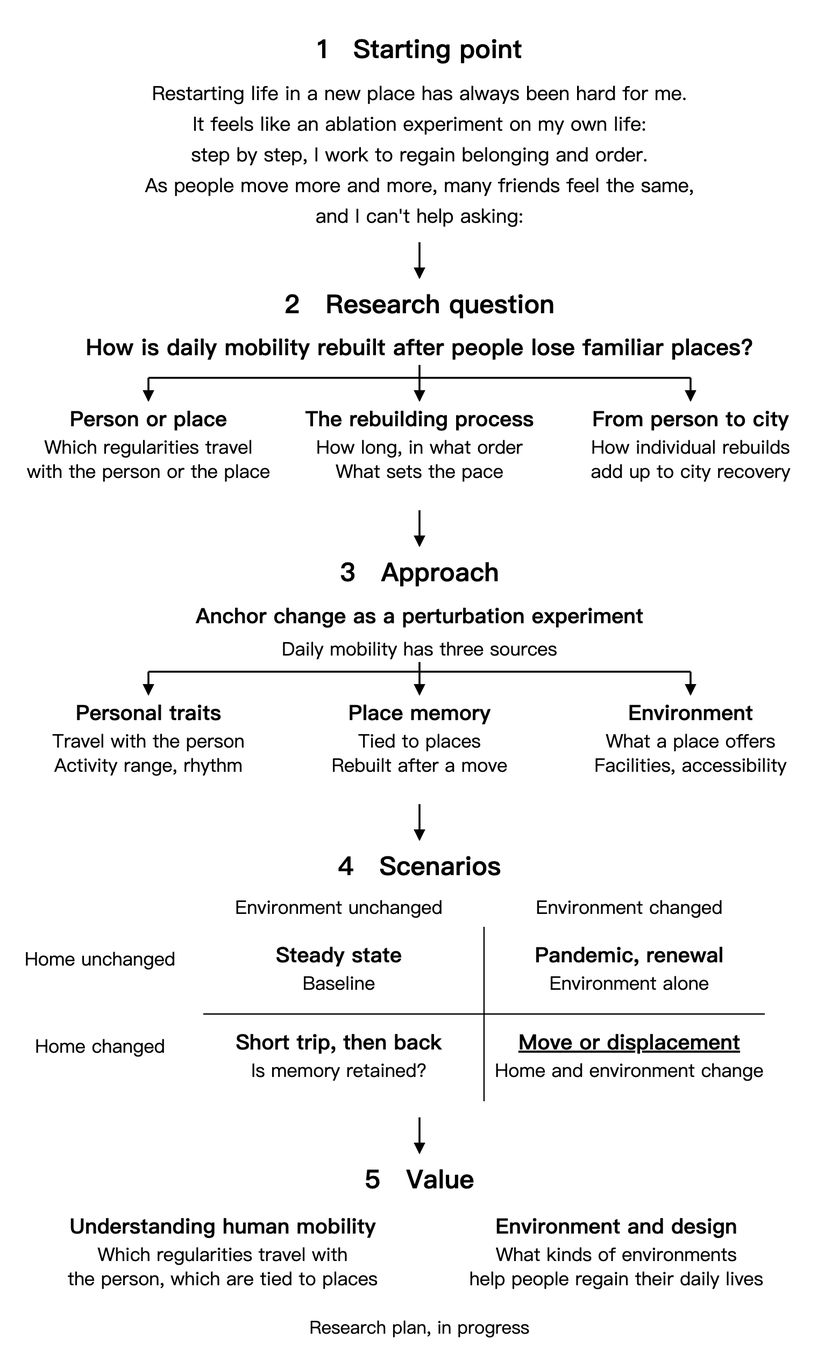
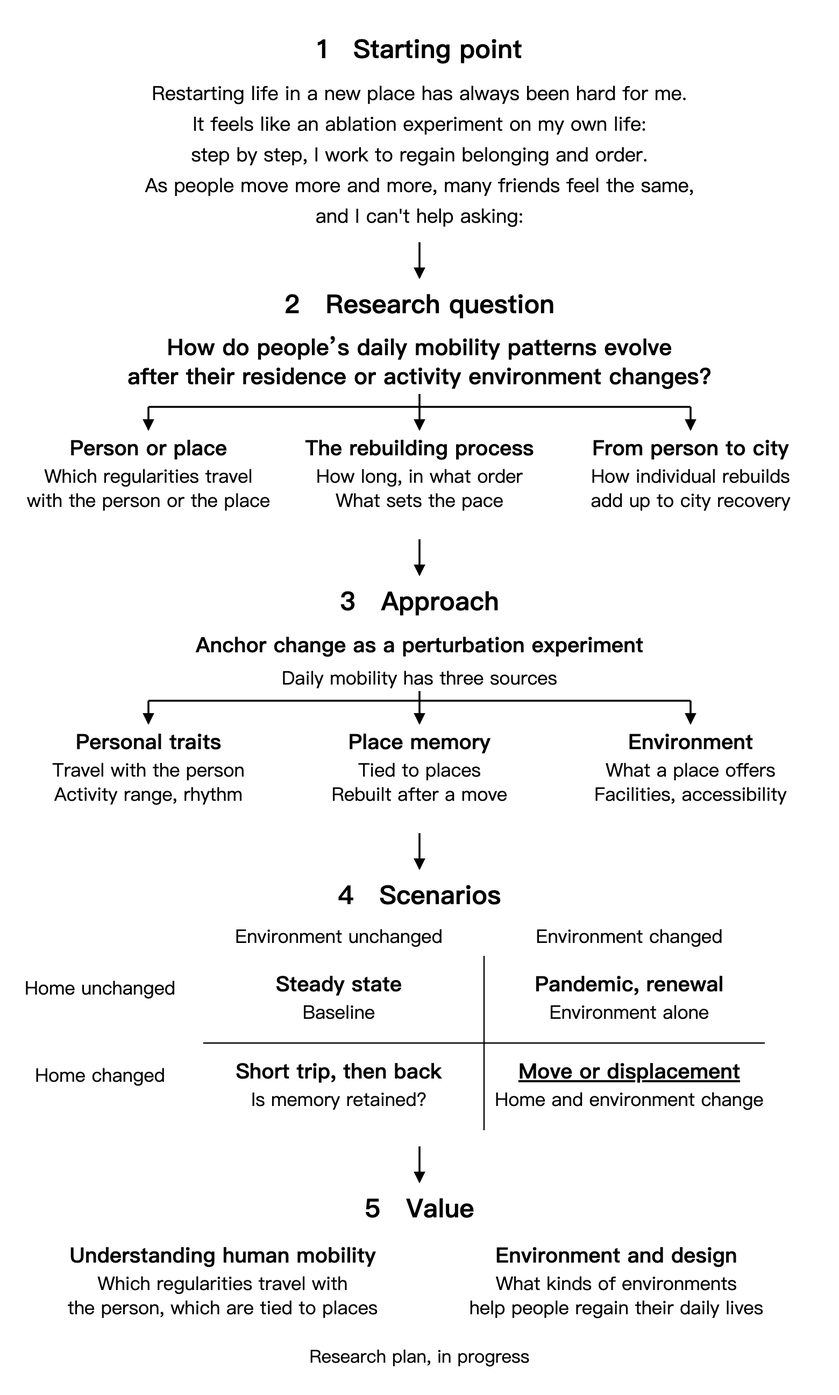
Update the daily-rebuild research question and roadmap

diff --git a/design-bijie.html b/design-bijie.html
@@ -1,1 +1,1 @@
-<!doctype html><html lang="en"><head><meta charset="UTF-8"><meta name="viewport" content="width=device-width,initial-scale=1"><meta name="description" content="A house for a friend’s family, and my first built architectural project. Designed in winter 2025; construction continued through 2025, with a family engagement celebration in October 2026."><title>A home in Bijie | Haoran Liu</title><link rel="stylesheet" href="styles.css"><link rel="stylesheet" href="academic.css?v=20261023-mobile"><link rel="stylesheet" href="design-project.css?v=20261010-projects"></head><body class="academic-page" data-page="design-bijie"><a class="skip-link" href="#main">Skip to content</a><div class="page-shell"><header class="site-header"><a class="brand" href="index.html"><span class="brand-copy"><strong>HAORAN LIU / 刘浩然</strong><small id="affiliation"></small></span></a><nav id="navigation" class="site-nav" aria-label="Main navigation"></nav><button id="language" type="button">中文</button></header><main id="main"><div id="page-content"></div></main></div><script src="design-content.js?v=20261023-names"></script><script src="content.js?v=20261023-names"></script><script src="academic.js?v=20261023-infer"></script></body></html>
+<!doctype html><html lang="en"><head><meta charset="UTF-8"><meta name="viewport" content="width=device-width,initial-scale=1"><meta name="description" content="A house for a friend’s family, and my first built architectural project. Designed in winter 2025; construction continued through 2025, with a family engagement celebration in October 2026."><title>A home in Bijie | Haoran Liu</title><link rel="stylesheet" href="styles.css"><link rel="stylesheet" href="academic.css?v=20261023-mobile"><link rel="stylesheet" href="design-project.css?v=20261010-projects"></head><body class="academic-page" data-page="design-bijie"><a class="skip-link" href="#main">Skip to content</a><div class="page-shell"><header class="site-header"><a class="brand" href="index.html"><span class="brand-copy"><strong>HAORAN LIU / 刘浩然</strong><small id="affiliation"></small></span></a><nav id="navigation" class="site-nav" aria-label="Main navigation"></nav><button id="language" type="button">中文</button></header><main id="main"><div id="page-content"></div></main></div><script src="design-content.js?v=20261023-rebuildq"></script><script src="content.js?v=20261023-rebuildq"></script><script src="academic.js?v=20261023-infer"></script></body></html>

diff --git a/more.html b/more.html
@@ -1,1 +1,1 @@
-<!doctype html><html lang="en"><head><meta charset="UTF-8"><meta name="viewport" content="width=device-width,initial-scale=1"><script>try{if(sessionStorage.getItem('haoran-flip-in')==='1')document.documentElement.classList.add('flip-arriving')}catch(_){}</script><style>.flip-arriving,.flip-arriving body{background:#111}.flip-arriving .page-shell{visibility:hidden}</style><meta name="description" content="Architecture, game development, swimming and underwater rugby."><title>More about me | Haoran Liu</title><link rel="stylesheet" href="styles.css"><link rel="stylesheet" href="academic.css?v=20261023-mobile"></head><body class="academic-page" data-page="more"><a class="skip-link" href="#main">Skip to content</a><div class="page-shell"><header class="site-header"><a class="brand" href="index.html"><span class="brand-copy"><strong>HAORAN LIU / 刘浩然</strong><small id="affiliation"></small></span></a><nav id="navigation" class="site-nav" aria-label="Main navigation"></nav><button id="language" type="button">中文</button></header><main id="main"><div id="page-content"></div></main></div><script src="content.js?v=20261023-names"></script><script src="academic.js?v=20261023-infer"></script></body></html>
+<!doctype html><html lang="en"><head><meta charset="UTF-8"><meta name="viewport" content="width=device-width,initial-scale=1"><script>try{if(sessionStorage.getItem('haoran-flip-in')==='1')document.documentElement.classList.add('flip-arriving')}catch(_){}</script><style>.flip-arriving,.flip-arriving body{background:#111}.flip-arriving .page-shell{visibility:hidden}</style><meta name="description" content="Architecture, game development, swimming and underwater rugby."><title>More about me | Haoran Liu</title><link rel="stylesheet" href="styles.css"><link rel="stylesheet" href="academic.css?v=20261023-mobile"></head><body class="academic-page" data-page="more"><a class="skip-link" href="#main">Skip to content</a><div class="page-shell"><header class="site-header"><a class="brand" href="index.html"><span class="brand-copy"><strong>HAORAN LIU / 刘浩然</strong><small id="affiliation"></small></span></a><nav id="navigation" class="site-nav" aria-label="Main navigation"></nav><button id="language" type="button">中文</button></header><main id="main"><div id="page-content"></div></main></div><script src="content.js?v=20261023-rebuildq"></script><script src="academic.js?v=20261023-infer"></script></body></html>

diff --git a/game-commonground.html b/game-commonground.html
@@ -1,1 +1,1 @@
-<!doctype html><html lang="en"><head><meta charset="UTF-8"><meta name="viewport" content="width=device-width,initial-scale=1"><meta name="description" content="Participatory governance of campus green spaces · RWTH Aachen · 2026. An interactive prototype connecting spatial research with everyday care and collective design."><title>Common Ground | Haoran Liu</title><link rel="stylesheet" href="styles.css"><link rel="stylesheet" href="academic.css?v=20261023-mobile"><link rel="stylesheet" href="design-project.css?v=20261010-projects"></head><body class="academic-page" data-page="game-commonground"><a class="skip-link" href="#main">Skip to content</a><div class="page-shell"><header class="site-header"><a class="brand" href="index.html"><span class="brand-copy"><strong>HAORAN LIU / 刘浩然</strong><small id="affiliation"></small></span></a><nav id="navigation" class="site-nav" aria-label="Main navigation"></nav><button id="language" type="button">中文</button></header><main id="main"><div id="page-content"></div></main></div><script src="design-content.js?v=20261023-names"></script><script src="content.js?v=20261023-names"></script><script src="academic.js?v=20261023-infer"></script></body></html>
+<!doctype html><html lang="en"><head><meta charset="UTF-8"><meta name="viewport" content="width=device-width,initial-scale=1"><meta name="description" content="Participatory governance of campus green spaces · RWTH Aachen · 2026. An interactive prototype connecting spatial research with everyday care and collective design."><title>Common Ground | Haoran Liu</title><link rel="stylesheet" href="styles.css"><link rel="stylesheet" href="academic.css?v=20261023-mobile"><link rel="stylesheet" href="design-project.css?v=20261010-projects"></head><body class="academic-page" data-page="game-commonground"><a class="skip-link" href="#main">Skip to content</a><div class="page-shell"><header class="site-header"><a class="brand" href="index.html"><span class="brand-copy"><strong>HAORAN LIU / 刘浩然</strong><small id="affiliation"></small></span></a><nav id="navigation" class="site-nav" aria-label="Main navigation"></nav><button id="language" type="button">中文</button></header><main id="main"><div id="page-content"></div></main></div><script src="design-content.js?v=20261023-rebuildq"></script><script src="content.js?v=20261023-rebuildq"></script><script src="academic.js?v=20261023-infer"></script></body></html>

diff --git a/design-kindergarten.html b/design-kindergarten.html
@@ -1,1 +1,1 @@
-<!doctype html><html lang="en"><head><meta charset="UTF-8"><meta name="viewport" content="width=device-width,initial-scale=1"><meta name="description" content="Kindergarten Rooftop Garden — A rooftop garden for a kindergarten, with raised planters, shade canopies, play structures and a pegboard wall."><title>Kindergarten Rooftop Garden | Haoran Liu</title><link rel="stylesheet" href="styles.css"><link rel="stylesheet" href="academic.css?v=20261023-mobile"><link rel="stylesheet" href="design-project.css?v=20261010-projects"></head><body class="academic-page" data-page="design-kindergarten"><a class="skip-link" href="#main">Skip to content</a><div class="page-shell"><header class="site-header"><a class="brand" href="index.html"><span class="brand-copy"><strong>HAORAN LIU / 刘浩然</strong><small id="affiliation"></small></span></a><nav id="navigation" class="site-nav" aria-label="Main navigation"></nav><button id="language" type="button">中文</button></header><main id="main"><div id="page-content"></div></main></div><script src="design-content.js?v=20261023-names"></script><script src="content.js?v=20261023-names"></script><script src="academic.js?v=20261023-infer"></script></body></html>
+<!doctype html><html lang="en"><head><meta charset="UTF-8"><meta name="viewport" content="width=device-width,initial-scale=1"><meta name="description" content="Kindergarten Rooftop Garden — A rooftop garden for a kindergarten, with raised planters, shade canopies, play structures and a pegboard wall."><title>Kindergarten Rooftop Garden | Haoran Liu</title><link rel="stylesheet" href="styles.css"><link rel="stylesheet" href="academic.css?v=20261023-mobile"><link rel="stylesheet" href="design-project.css?v=20261010-projects"></head><body class="academic-page" data-page="design-kindergarten"><a class="skip-link" href="#main">Skip to content</a><div class="page-shell"><header class="site-header"><a class="brand" href="index.html"><span class="brand-copy"><strong>HAORAN LIU / 刘浩然</strong><small id="affiliation"></small></span></a><nav id="navigation" class="site-nav" aria-label="Main navigation"></nav><button id="language" type="button">中文</button></header><main id="main"><div id="page-content"></div></main></div><script src="design-content.js?v=20261023-rebuildq"></script><script src="content.js?v=20261023-rebuildq"></script><script src="academic.js?v=20261023-infer"></script></body></html>

diff --git a/project-thesis.html b/project-thesis.html
@@ -1,1 +1,1 @@
-<!doctype html><html lang="en"><head><meta charset="UTF-8"><meta name="viewport" content="width=device-width,initial-scale=1"><meta name="description" content="How much additional information do known individual mobility regularities, such as exploration and return, distance decay and temporal rhythms, provide for trajectory completion? Under which gap lengths and spatial resolutions are they useful?"><title>Information gain from individual mobility regularities | Haoran Liu</title><link rel="stylesheet" href="styles.css"><link rel="stylesheet" href="academic.css?v=20261023-mobile"></head><body class="academic-page" data-page="project-thesis"><a class="skip-link" href="#main">Skip to content</a><div class="page-shell"><header class="site-header"><a class="brand" href="index.html"><span class="brand-copy"><strong>HAORAN LIU / 刘浩然</strong><small id="affiliation"></small></span></a><nav id="navigation" class="site-nav" aria-label="Main navigation"></nav><button id="language" type="button">中文</button></header><main id="main"><div id="page-content"></div></main></div><script src="content.js?v=20261023-names"></script><script src="academic.js?v=20261023-infer"></script></body></html>
+<!doctype html><html lang="en"><head><meta charset="UTF-8"><meta name="viewport" content="width=device-width,initial-scale=1"><meta name="description" content="How much additional information do known individual mobility regularities, such as exploration and return, distance decay and temporal rhythms, provide for trajectory completion? Under which gap lengths and spatial resolutions are they useful?"><title>Information gain from individual mobility regularities | Haoran Liu</title><link rel="stylesheet" href="styles.css"><link rel="stylesheet" href="academic.css?v=20261023-mobile"></head><body class="academic-page" data-page="project-thesis"><a class="skip-link" href="#main">Skip to content</a><div class="page-shell"><header class="site-header"><a class="brand" href="index.html"><span class="brand-copy"><strong>HAORAN LIU / 刘浩然</strong><small id="affiliation"></small></span></a><nav id="navigation" class="site-nav" aria-label="Main navigation"></nav><button id="language" type="button">中文</button></header><main id="main"><div id="page-content"></div></main></div><script src="content.js?v=20261023-rebuildq"></script><script src="academic.js?v=20261023-infer"></script></body></html>

diff --git a/design-ninghai.html b/design-ninghai.html
@@ -1,1 +1,1 @@
-<!doctype html><html lang="en"><head><meta charset="UTF-8"><meta name="viewport" content="width=device-width,initial-scale=1"><meta name="description" content="Ningbo Showroom — Interior design and technical development for an exhibition hall at the Ninghai National Modern Agricultural Industrial Park."><title>Ningbo Showroom | Haoran Liu</title><link rel="stylesheet" href="styles.css"><link rel="stylesheet" href="academic.css?v=20261023-mobile"><link rel="stylesheet" href="design-project.css?v=20261010-projects"></head><body class="academic-page" data-page="design-ninghai"><a class="skip-link" href="#main">Skip to content</a><div class="page-shell"><header class="site-header"><a class="brand" href="index.html"><span class="brand-copy"><strong>HAORAN LIU / 刘浩然</strong><small id="affiliation"></small></span></a><nav id="navigation" class="site-nav" aria-label="Main navigation"></nav><button id="language" type="button">中文</button></header><main id="main"><div id="page-content"></div></main></div><script src="design-content.js?v=20261023-names"></script><script src="content.js?v=20261023-names"></script><script src="academic.js?v=20261023-infer"></script></body></html>
+<!doctype html><html lang="en"><head><meta charset="UTF-8"><meta name="viewport" content="width=device-width,initial-scale=1"><meta name="description" content="Ningbo Showroom — Interior design and technical development for an exhibition hall at the Ninghai National Modern Agricultural Industrial Park."><title>Ningbo Showroom | Haoran Liu</title><link rel="stylesheet" href="styles.css"><link rel="stylesheet" href="academic.css?v=20261023-mobile"><link rel="stylesheet" href="design-project.css?v=20261010-projects"></head><body class="academic-page" data-page="design-ninghai"><a class="skip-link" href="#main">Skip to content</a><div class="page-shell"><header class="site-header"><a class="brand" href="index.html"><span class="brand-copy"><strong>HAORAN LIU / 刘浩然</strong><small id="affiliation"></small></span></a><nav id="navigation" class="site-nav" aria-label="Main navigation"></nav><button id="language" type="button">中文</button></header><main id="main"><div id="page-content"></div></main></div><script src="design-content.js?v=20261023-rebuildq"></script><script src="content.js?v=20261023-rebuildq"></script><script src="academic.js?v=20261023-infer"></script></body></html>

diff --git a/project-manifold.html b/project-manifold.html
@@ -1,1 +1,1 @@
-<!doctype html><html lang="en"><head><meta charset="UTF-8"><meta name="viewport" content="width=device-width,initial-scale=1"><meta name="description" content="Distance-decay models that assume homogeneous space may obscure local structure. Can a city’s latent spatial structure instead be inferred from human flows without prespecifying a distance function?"><title>Low-dimensional geometry of human mobility networks | Haoran Liu</title><link rel="stylesheet" href="styles.css"><link rel="stylesheet" href="academic.css?v=20261023-mobile"></head><body class="academic-page" data-page="project-manifold"><a class="skip-link" href="#main">Skip to content</a><div class="page-shell"><header class="site-header"><a class="brand" href="index.html"><span class="brand-copy"><strong>HAORAN LIU / 刘浩然</strong><small id="affiliation"></small></span></a><nav id="navigation" class="site-nav" aria-label="Main navigation"></nav><button id="language" type="button">中文</button></header><main id="main"><div id="page-content"></div></main></div><script src="content.js?v=20261023-names"></script><script src="academic.js?v=20261023-infer"></script></body></html>
+<!doctype html><html lang="en"><head><meta charset="UTF-8"><meta name="viewport" content="width=device-width,initial-scale=1"><meta name="description" content="Distance-decay models that assume homogeneous space may obscure local structure. Can a city’s latent spatial structure instead be inferred from human flows without prespecifying a distance function?"><title>Low-dimensional geometry of human mobility networks | Haoran Liu</title><link rel="stylesheet" href="styles.css"><link rel="stylesheet" href="academic.css?v=20261023-mobile"></head><body class="academic-page" data-page="project-manifold"><a class="skip-link" href="#main">Skip to content</a><div class="page-shell"><header class="site-header"><a class="brand" href="index.html"><span class="brand-copy"><strong>HAORAN LIU / 刘浩然</strong><small id="affiliation"></small></span></a><nav id="navigation" class="site-nav" aria-label="Main navigation"></nav><button id="language" type="button">中文</button></header><main id="main"><div id="page-content"></div></main></div><script src="content.js?v=20261023-rebuildq"></script><script src="academic.js?v=20261023-infer"></script></body></html>

diff --git a/game-parkugo.html b/game-parkugo.html
@@ -1,1 +1,1 @@
-<!doctype html><html lang="en"><head><meta charset="UTF-8"><meta name="viewport" content="width=device-width,initial-scale=1"><meta name="description" content="I initiated a web-based campus photo-competition game at Peking University. Its purpose was to encourage people to notice and explore their public environment. After an initial team phase, two of us mainly advanced the prototype."><title>Park U GO | Haoran Liu</title><link rel="stylesheet" href="styles.css"><link rel="stylesheet" href="academic.css?v=20261023-mobile"></head><body class="academic-page" data-page="game-parkugo"><a class="skip-link" href="#main">Skip to content</a><div class="page-shell"><header class="site-header"><a class="brand" href="index.html"><span class="brand-copy"><strong>HAORAN LIU / 刘浩然</strong><small id="affiliation"></small></span></a><nav id="navigation" class="site-nav" aria-label="Main navigation"></nav><button id="language" type="button">中文</button></header><main id="main"><div id="page-content"></div></main></div><script src="content.js?v=20261023-names"></script><script src="academic.js?v=20261023-infer"></script></body></html>
+<!doctype html><html lang="en"><head><meta charset="UTF-8"><meta name="viewport" content="width=device-width,initial-scale=1"><meta name="description" content="I initiated a web-based campus photo-competition game at Peking University. Its purpose was to encourage people to notice and explore their public environment. After an initial team phase, two of us mainly advanced the prototype."><title>Park U GO | Haoran Liu</title><link rel="stylesheet" href="styles.css"><link rel="stylesheet" href="academic.css?v=20261023-mobile"></head><body class="academic-page" data-page="game-parkugo"><a class="skip-link" href="#main">Skip to content</a><div class="page-shell"><header class="site-header"><a class="brand" href="index.html"><span class="brand-copy"><strong>HAORAN LIU / 刘浩然</strong><small id="affiliation"></small></span></a><nav id="navigation" class="site-nav" aria-label="Main navigation"></nav><button id="language" type="button">中文</button></header><main id="main"><div id="page-content"></div></main></div><script src="content.js?v=20261023-rebuildq"></script><script src="academic.js?v=20261023-infer"></script></body></html>

diff --git a/design-cafeteria.html b/design-cafeteria.html
@@ -1,1 +1,1 @@
-<!doctype html><html lang="en"><head><meta charset="UTF-8"><meta name="viewport" content="width=device-width,initial-scale=1"><meta name="description" content="PKU Canteen Renovation — Interior detailing and staircase transformation."><title>PKU Canteen Renovation | Haoran Liu</title><link rel="stylesheet" href="styles.css"><link rel="stylesheet" href="academic.css?v=20261023-mobile"><link rel="stylesheet" href="design-project.css?v=20261010-projects"></head><body class="academic-page" data-page="design-cafeteria"><a class="skip-link" href="#main">Skip to content</a><div class="page-shell"><header class="site-header"><a class="brand" href="index.html"><span class="brand-copy"><strong>HAORAN LIU / 刘浩然</strong><small id="affiliation"></small></span></a><nav id="navigation" class="site-nav" aria-label="Main navigation"></nav><button id="language" type="button">中文</button></header><main id="main"><div id="page-content"></div></main></div><script src="design-content.js?v=20261023-names"></script><script src="content.js?v=20261023-names"></script><script src="academic.js?v=20261023-infer"></script></body></html>
+<!doctype html><html lang="en"><head><meta charset="UTF-8"><meta name="viewport" content="width=device-width,initial-scale=1"><meta name="description" content="PKU Canteen Renovation — Interior detailing and staircase transformation."><title>PKU Canteen Renovation | Haoran Liu</title><link rel="stylesheet" href="styles.css"><link rel="stylesheet" href="academic.css?v=20261023-mobile"><link rel="stylesheet" href="design-project.css?v=20261010-projects"></head><body class="academic-page" data-page="design-cafeteria"><a class="skip-link" href="#main">Skip to content</a><div class="page-shell"><header class="site-header"><a class="brand" href="index.html"><span class="brand-copy"><strong>HAORAN LIU / 刘浩然</strong><small id="affiliation"></small></span></a><nav id="navigation" class="site-nav" aria-label="Main navigation"></nav><button id="language" type="button">中文</button></header><main id="main"><div id="page-content"></div></main></div><script src="design-content.js?v=20261023-rebuildq"></script><script src="content.js?v=20261023-rebuildq"></script><script src="academic.js?v=20261023-infer"></script></body></html>

diff --git a/design-gallery.html b/design-gallery.html
@@ -1,1 +1,1 @@
-<!doctype html><html lang="en"><head><meta charset="UTF-8"><meta name="viewport" content="width=device-width,initial-scale=1"><meta name="description" content="SDU Architecture Gallery — Low-cost prototype and rapid installation."><title>SDU Architecture Gallery | Haoran Liu</title><link rel="stylesheet" href="styles.css"><link rel="stylesheet" href="academic.css?v=20261023-mobile"><link rel="stylesheet" href="design-project.css?v=20261010-projects"></head><body class="academic-page" data-page="design-gallery"><a class="skip-link" href="#main">Skip to content</a><div class="page-shell"><header class="site-header"><a class="brand" href="index.html"><span class="brand-copy"><strong>HAORAN LIU / 刘浩然</strong><small id="affiliation"></small></span></a><nav id="navigation" class="site-nav" aria-label="Main navigation"></nav><button id="language" type="button">中文</button></header><main id="main"><div id="page-content"></div></main></div><script src="design-content.js?v=20261023-names"></script><script src="content.js?v=20261023-names"></script><script src="academic.js?v=20261023-infer"></script></body></html>
+<!doctype html><html lang="en"><head><meta charset="UTF-8"><meta name="viewport" content="width=device-width,initial-scale=1"><meta name="description" content="SDU Architecture Gallery — Low-cost prototype and rapid installation."><title>SDU Architecture Gallery | Haoran Liu</title><link rel="stylesheet" href="styles.css"><link rel="stylesheet" href="academic.css?v=20261023-mobile"><link rel="stylesheet" href="design-project.css?v=20261010-projects"></head><body class="academic-page" data-page="design-gallery"><a class="skip-link" href="#main">Skip to content</a><div class="page-shell"><header class="site-header"><a class="brand" href="index.html"><span class="brand-copy"><strong>HAORAN LIU / 刘浩然</strong><small id="affiliation"></small></span></a><nav id="navigation" class="site-nav" aria-label="Main navigation"></nav><button id="language" type="button">中文</button></header><main id="main"><div id="page-content"></div></main></div><script src="design-content.js?v=20261023-rebuildq"></script><script src="content.js?v=20261023-rebuildq"></script><script src="academic.js?v=20261023-infer"></script></body></html>

diff --git a/design-plaza.html b/design-plaza.html
@@ -1,1 +1,1 @@
-<!doctype html><html lang="en"><head><meta charset="UTF-8"><meta name="viewport" content="width=device-width,initial-scale=1"><meta name="description" content="SDU Leisure Plaza — Site implementation and collaboration with contractors."><title>SDU Leisure Plaza | Haoran Liu</title><link rel="stylesheet" href="styles.css"><link rel="stylesheet" href="academic.css?v=20261023-mobile"><link rel="stylesheet" href="design-project.css?v=20261010-projects"></head><body class="academic-page" data-page="design-plaza"><a class="skip-link" href="#main">Skip to content</a><div class="page-shell"><header class="site-header"><a class="brand" href="index.html"><span class="brand-copy"><strong>HAORAN LIU / 刘浩然</strong><small id="affiliation"></small></span></a><nav id="navigation" class="site-nav" aria-label="Main navigation"></nav><button id="language" type="button">中文</button></header><main id="main"><div id="page-content"></div></main></div><script src="design-content.js?v=20261023-names"></script><script src="content.js?v=20261023-names"></script><script src="academic.js?v=20261023-infer"></script></body></html>
+<!doctype html><html lang="en"><head><meta charset="UTF-8"><meta name="viewport" content="width=device-width,initial-scale=1"><meta name="description" content="SDU Leisure Plaza — Site implementation and collaboration with contractors."><title>SDU Leisure Plaza | Haoran Liu</title><link rel="stylesheet" href="styles.css"><link rel="stylesheet" href="academic.css?v=20261023-mobile"><link rel="stylesheet" href="design-project.css?v=20261010-projects"></head><body class="academic-page" data-page="design-plaza"><a class="skip-link" href="#main">Skip to content</a><div class="page-shell"><header class="site-header"><a class="brand" href="index.html"><span class="brand-copy"><strong>HAORAN LIU / 刘浩然</strong><small id="affiliation"></small></span></a><nav id="navigation" class="site-nav" aria-label="Main navigation"></nav><button id="language" type="button">中文</button></header><main id="main"><div id="page-content"></div></main></div><script src="design-content.js?v=20261023-rebuildq"></script><script src="content.js?v=20261023-rebuildq"></script><script src="academic.js?v=20261023-infer"></script></body></html>

diff --git a/design-classroom.html b/design-classroom.html
@@ -1,1 +1,1 @@
-<!doctype html><html lang="en"><head><meta charset="UTF-8"><meta name="viewport" content="width=device-width,initial-scale=1"><meta name="description" content="SDU Classroom and Hallway — Mobile furniture and OSB systems."><title>SDU Classroom and Hallway | Haoran Liu</title><link rel="stylesheet" href="styles.css"><link rel="stylesheet" href="academic.css?v=20261023-mobile"><link rel="stylesheet" href="design-project.css?v=20261010-projects"></head><body class="academic-page" data-page="design-classroom"><a class="skip-link" href="#main">Skip to content</a><div class="page-shell"><header class="site-header"><a class="brand" href="index.html"><span class="brand-copy"><strong>HAORAN LIU / 刘浩然</strong><small id="affiliation"></small></span></a><nav id="navigation" class="site-nav" aria-label="Main navigation"></nav><button id="language" type="button">中文</button></header><main id="main"><div id="page-content"></div></main></div><script src="design-content.js?v=20261023-names"></script><script src="content.js?v=20261023-names"></script><script src="academic.js?v=20261023-infer"></script></body></html>
+<!doctype html><html lang="en"><head><meta charset="UTF-8"><meta name="viewport" content="width=device-width,initial-scale=1"><meta name="description" content="SDU Classroom and Hallway — Mobile furniture and OSB systems."><title>SDU Classroom and Hallway | Haoran Liu</title><link rel="stylesheet" href="styles.css"><link rel="stylesheet" href="academic.css?v=20261023-mobile"><link rel="stylesheet" href="design-project.css?v=20261010-projects"></head><body class="academic-page" data-page="design-classroom"><a class="skip-link" href="#main">Skip to content</a><div class="page-shell"><header class="site-header"><a class="brand" href="index.html"><span class="brand-copy"><strong>HAORAN LIU / 刘浩然</strong><small id="affiliation"></small></span></a><nav id="navigation" class="site-nav" aria-label="Main navigation"></nav><button id="language" type="button">中文</button></header><main id="main"><div id="page-content"></div></main></div><script src="design-content.js?v=20261023-rebuildq"></script><script src="content.js?v=20261023-rebuildq"></script><script src="academic.js?v=20261023-infer"></script></body></html>
